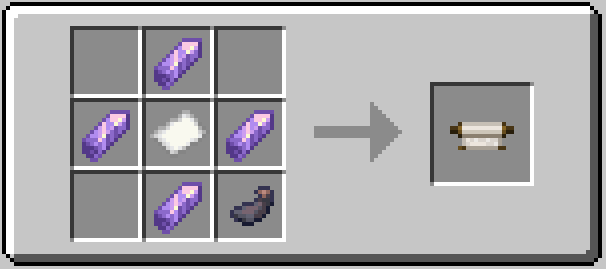
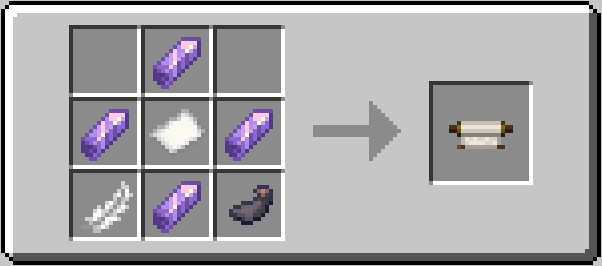
update readme

diff --git a/README.md b/README.md
@@ -10,6 +10,10 @@ The **Tome of Recall** is exactly the same, but you can use it again and again. 
 
 ![unbound tome recipe](/readme/tome-recipe.png)
 
+Because the tome is meant to be reused, you might find that you want to change the location it's bound to. To do so, simply unbind it by adding some more pages:
+
+![unbinding recipe](/readme/unbind-recipe.png)
+
 ## Credits
 
 Textures adapted for this mod:
